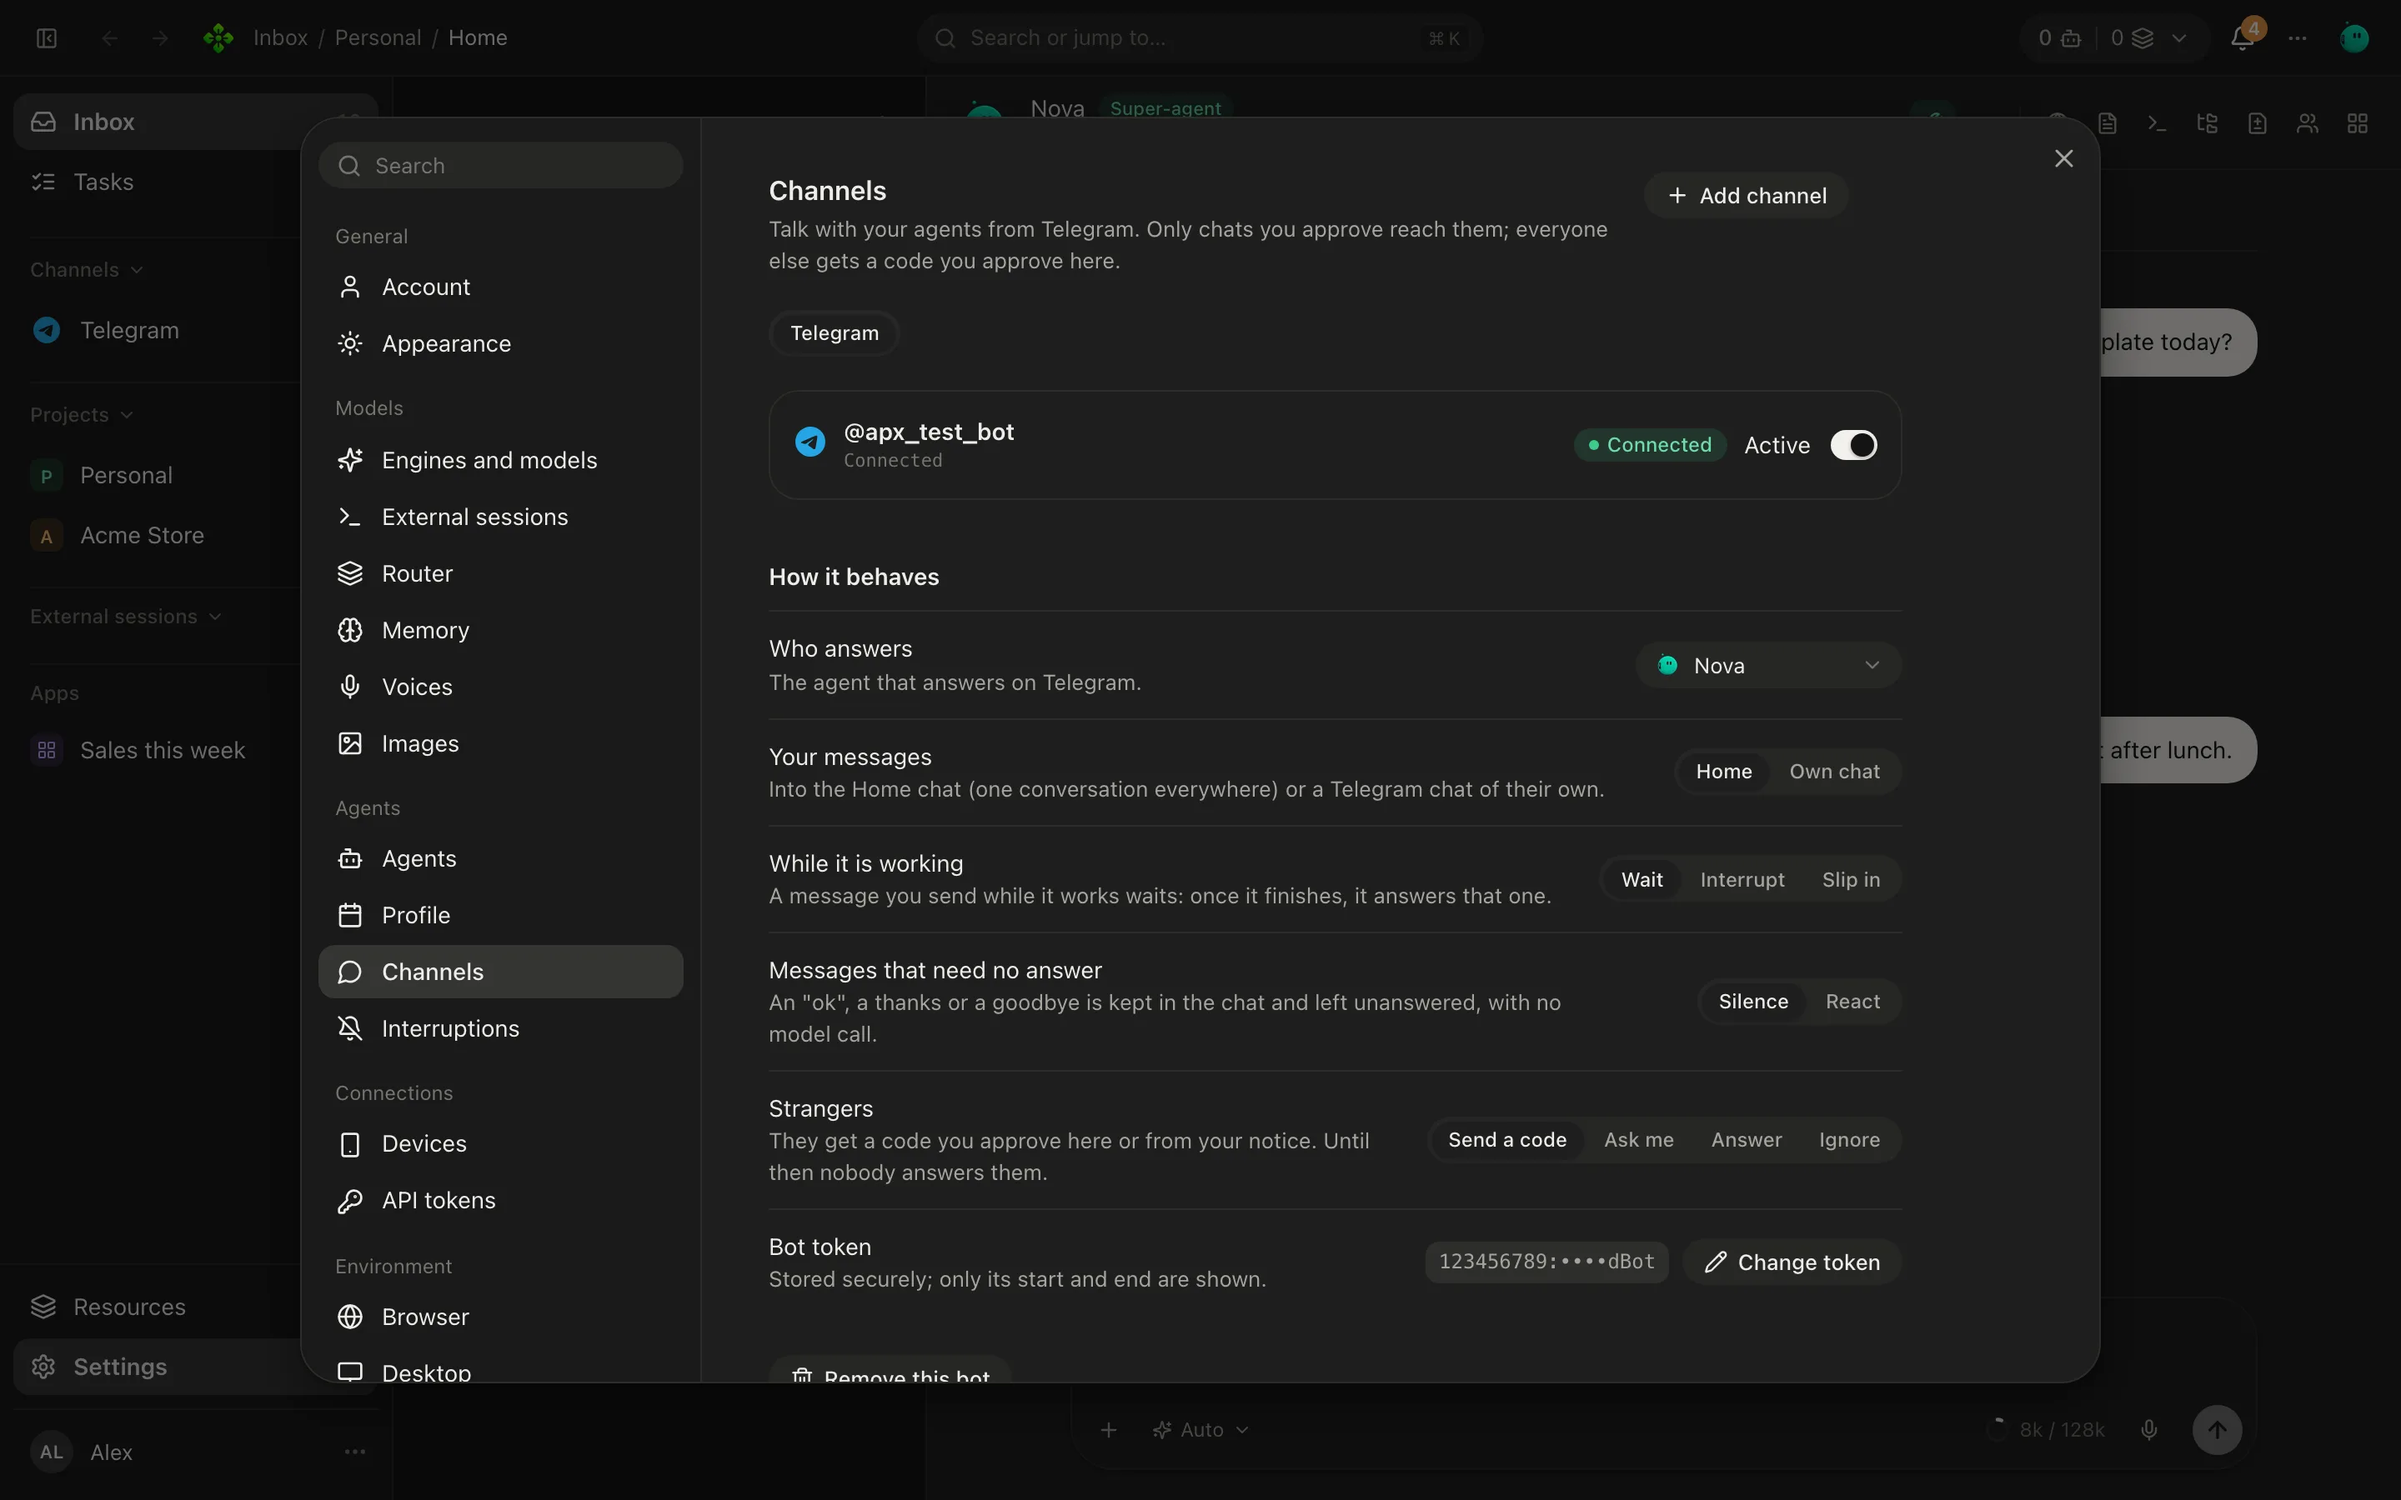
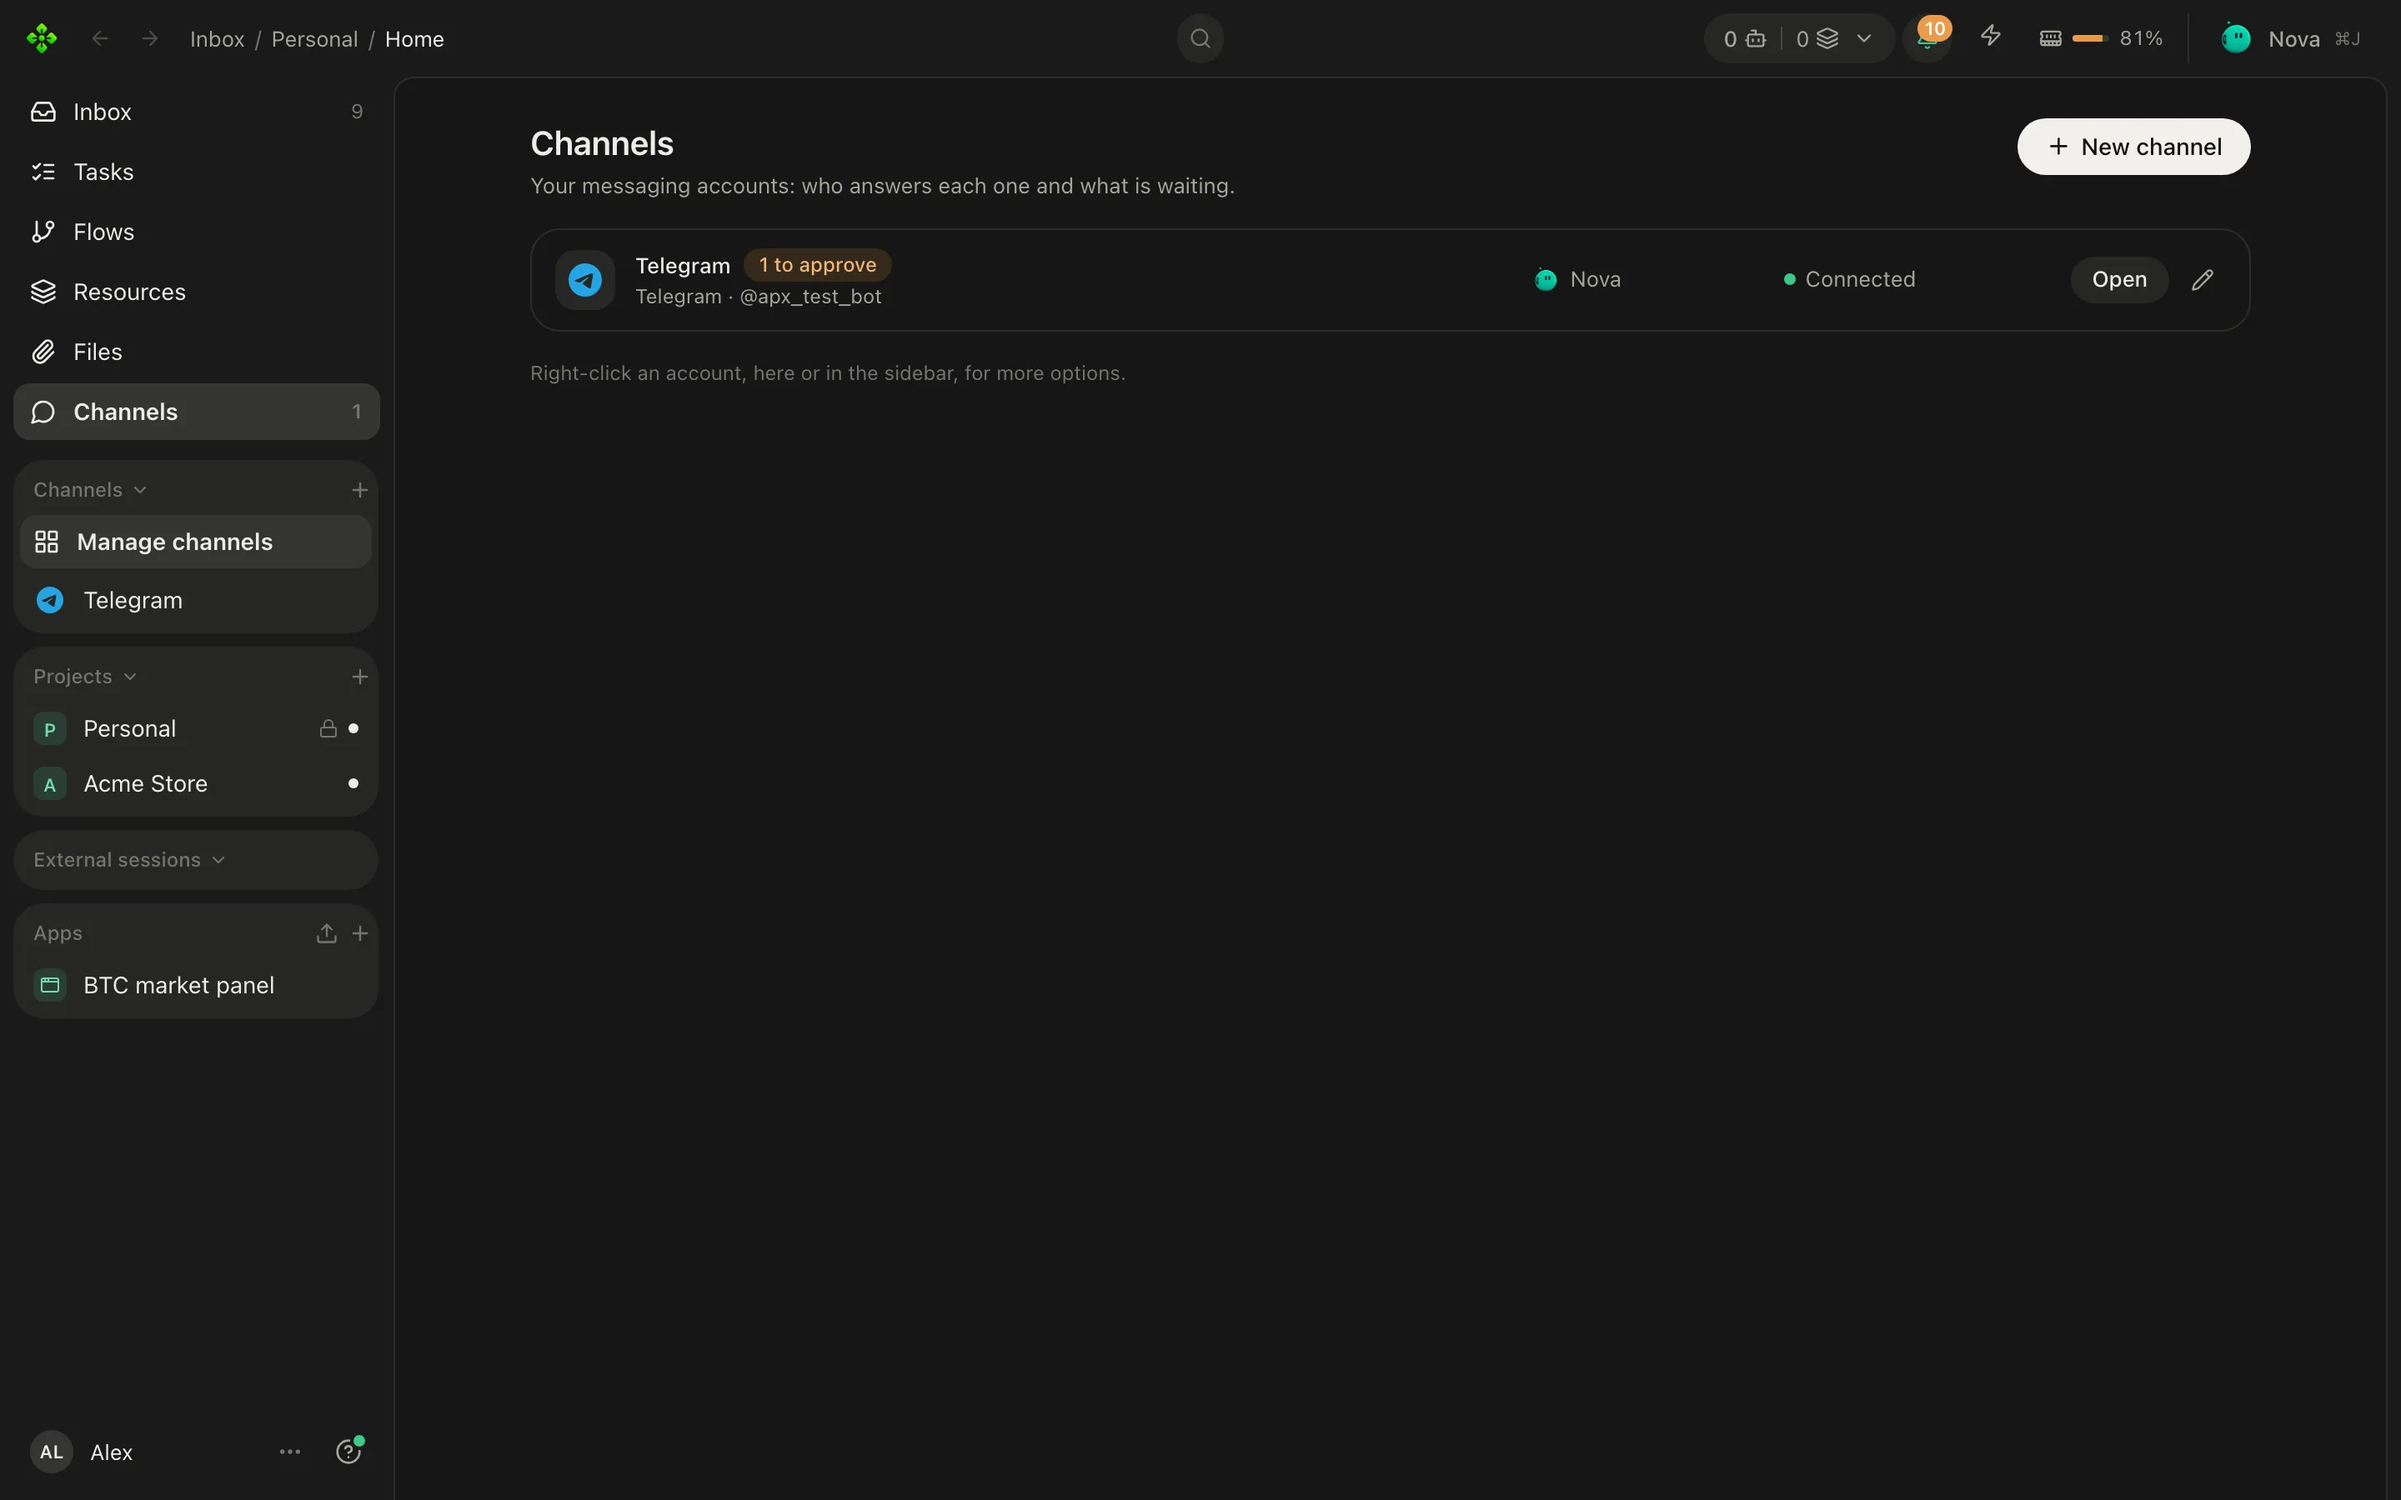
docs: channels screenshots show the Channels screen
The channels overview captions describe the Channels screen, but its two
screenshots still showed the old Settings, Channels pane. They are retaken
with the docs shots script, which now marks the v2 welcome as seen and turns
telemetry off in its demo core, so neither dialog nor consent card covers the
screen (they covered every shot taken today).

Docs impact: updated apps/docs/src/assets/shots/settings-channels.webp and
settings-channels-dark.webp; apps/docs/scripts/shots.ts.

diff --git a/apps/docs/scripts/shots.ts b/apps/docs/scripts/shots.ts
@@ -55,6 +55,7 @@ const child = spawn(process.execPath, ["--no-warnings", path.join(root, "apps/co
     APX_SECRETS: "file",
     APX_UPDATES: "off",
     APX_RELEASES: "off",
+    APX_TELEMETRY: "off",
     APX_AGENT_NAME: "Nova",
     APX_V1_HOME: path.join(dir, "no-v1"),
     APX_V1_URL: "http://127.0.0.1:9",
@@ -272,7 +273,7 @@ const prefs = async (p: Page, mode: "light" | "dark") =>
     try {
       localStorage.setItem("apx.mode", mode);
       localStorage.setItem("apx.prefs", JSON.stringify({ language: "en", look: "minimal", displayName: "Alex" }));
-      localStorage.setItem("apx.corner", JSON.stringify({ discord: true, star: true }));
+      localStorage.setItem("apx.corner", JSON.stringify({ discord: true, star: true, welcome: true }));
     } catch {}
   }, mode);
 // The demo lives in a temp folder; it shows the way a reader's own one would, under ~ (kept so across re-renders).
